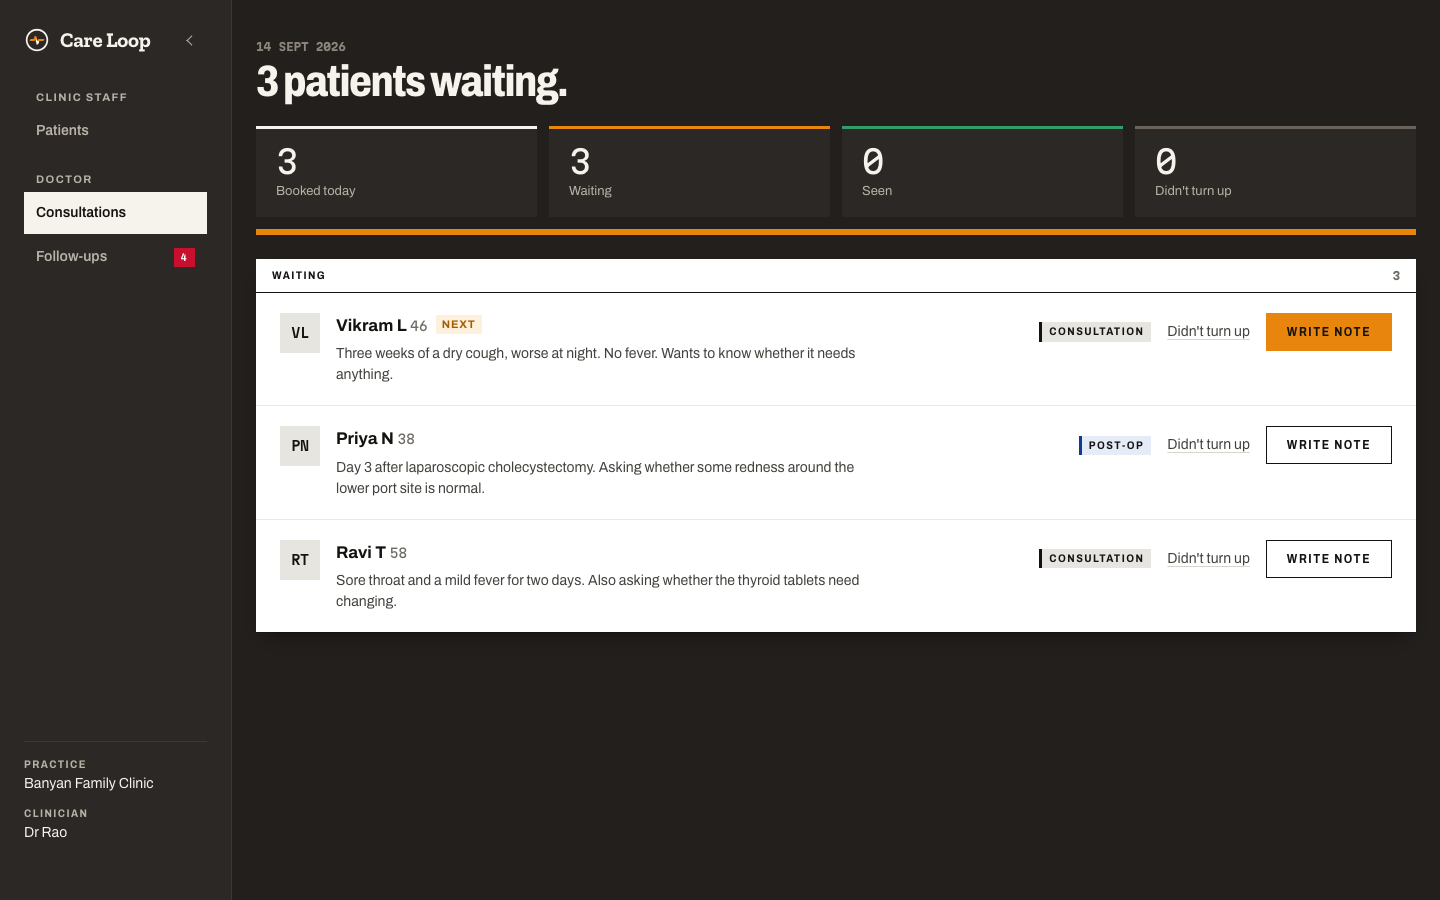
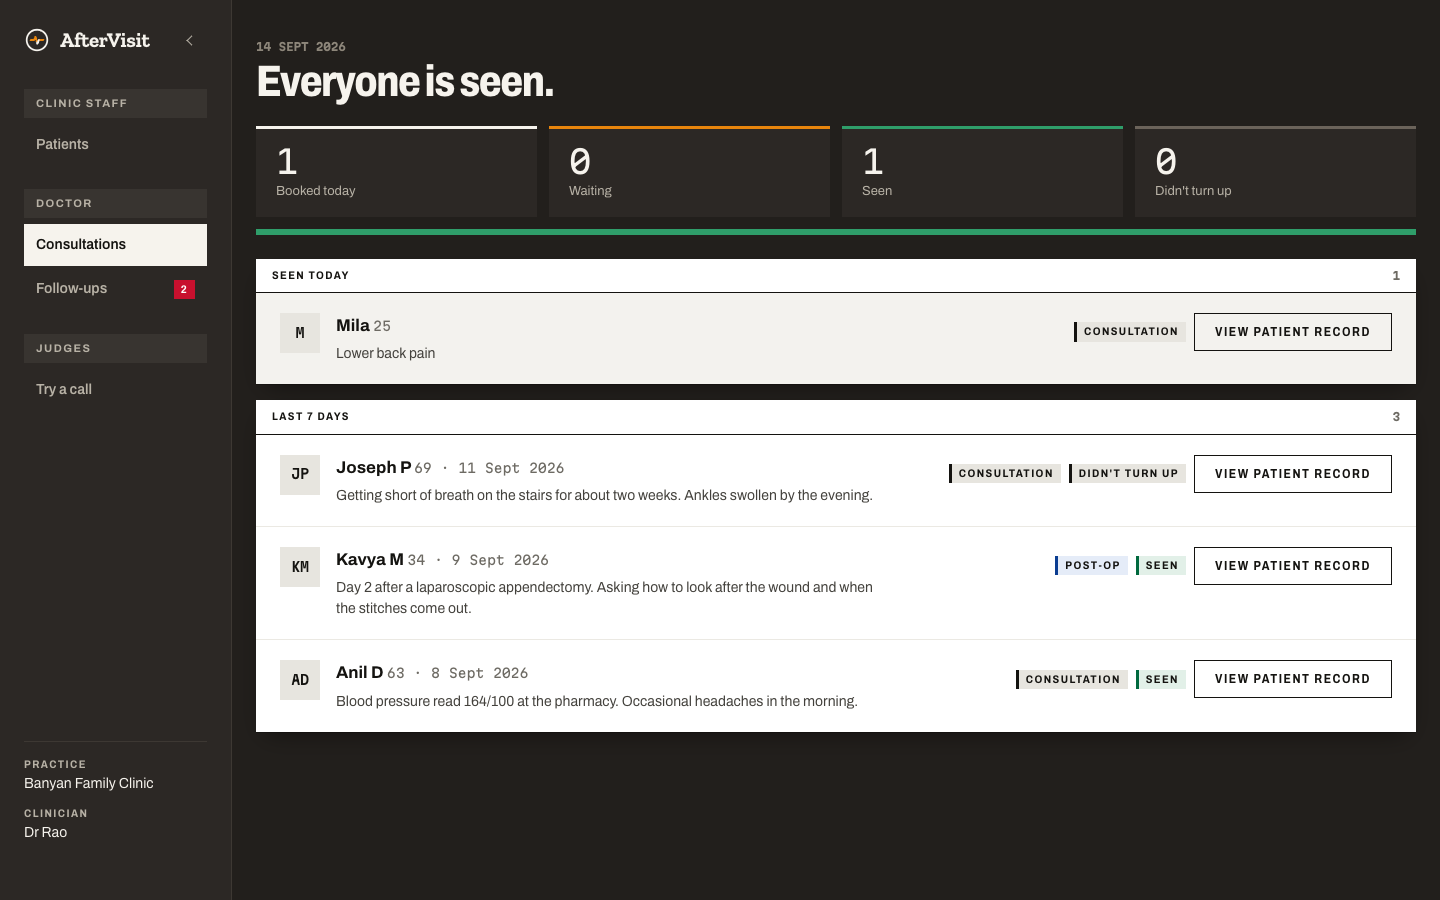
docs: retake screenshots with the AfterVisit name
The README and the Devpost write-up embed these from main, and they still
showed the old Care Loop rail. The plan screenshot the README pointed to
was never committed, so that cell now uses the follow-up topics image.

diff --git a/README.md b/README.md
@@ -67,10 +67,10 @@ not in this repository.
 
 | | |
 |---|---|
-| ![Consultations](docs/screenshots/consultations.png) | ![Writing the note](docs/screenshots/write-note.png) |
-| **Consultations** — the doctor’s day | **The note** — free text, plus what should escalate |
-| ![The follow-up — what the calls find out, from the note's own words](docs/screenshots/follow-up.png) | ![The patient record](docs/screenshots/patient-record.png) |
-| **The compiled plan** — every value says where it came from | **The patient record** — what changed, in their words |
+| ![Consultations](docs/screenshots/consultations.png) | ![What the calls find out, quoted from the note](docs/screenshots/write-note.png) |
+| **Consultations** — the doctor’s day | **What the calls find out** — each topic quoted from the note, with the patient’s answer |
+| ![The patient record](docs/screenshots/patient-record.png) | |
+| **The patient record** — the decision, the calling schedule, in their words | |
 
 ---
 
